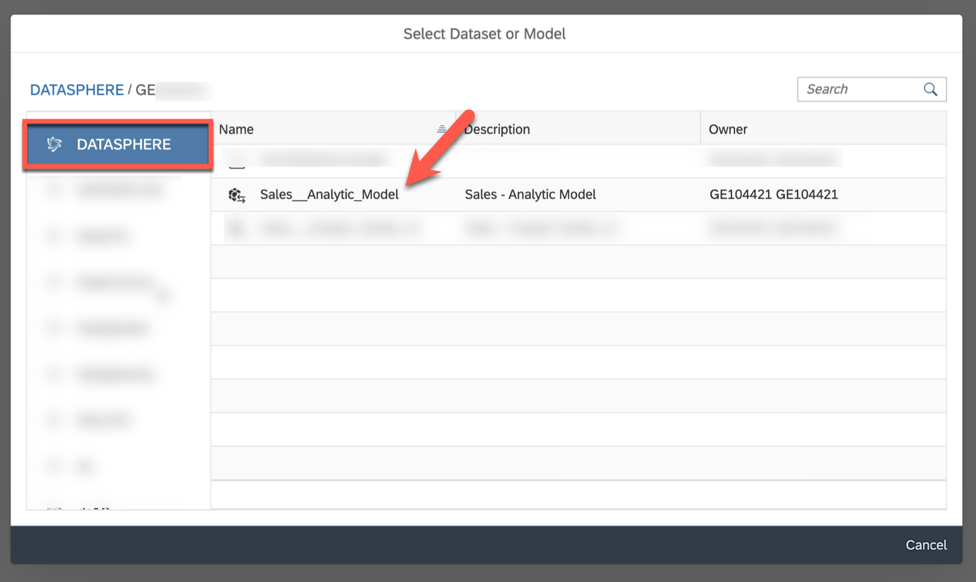
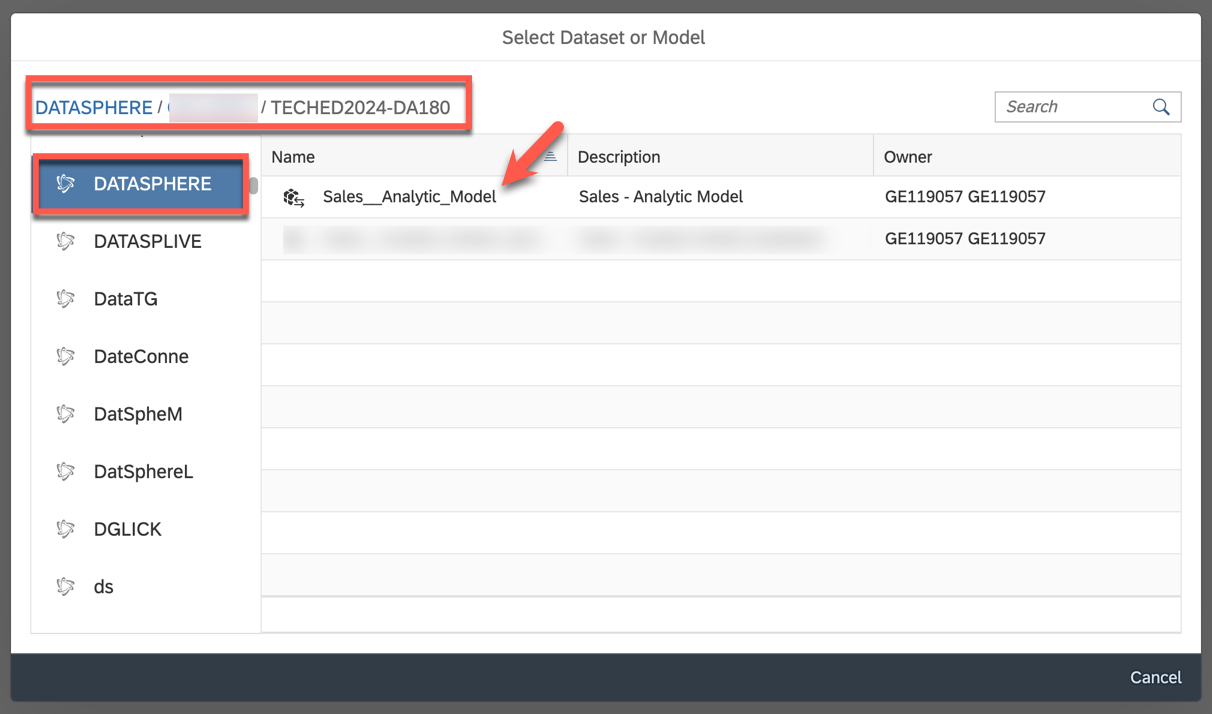
update

diff --git a/exercises/ex23/README.md b/exercises/ex23/README.md
@@ -38,7 +38,7 @@ This functionality is beneficial for development activities when you need to tra
 7. If you scroll down, ensure that ***Load from Table*** is set to ***Delta Capture***. As the delta capture setting is enabled for the source table, the columns ***Change Date*** and ***Change Type*** are automatically mapped to these columns in the target table. Mapping these columns (or a calculated column that contains the content of these columns) to any other target column is not permitted. 
 <br>![](images/00_00_0005.png)  
 
-8. Add a new node for ***Calculated Columns***. Choose the existing column ***STORE_ID*** and enter the expression ***RIGHT(STORE_ID,6)*** as we will exclude the prefix of the STORE_ID so that it can be mapped to the dimension IDs. Adjust the length to 6 characters.
+8. Add a new node for ***Calculated Columns***. Choose the existing column ***STORE_ID*** and enter the expression ***SUBSTR_AFTER(STORE_ID,'US')*** as we will exclude the prefix of the STORE_ID so that it can be mapped to the dimension IDs. Adjust the length to 6 characters.
 <br>![](images/00_00_0006.png)  
 
 9. Exit the graphical view editor and go back to the transformation flow overview.
@@ -98,10 +98,10 @@ This functionality is beneficial for development activities when you need to tra
 26. Select ***Create Analytic Model*** (in the view properties of ***Sales View - Fact (Updated)***).
 <br>![](images/00_00_0035.png)  
 
-27. When creating an updated data model, it is likely that measure or attribute names change. To simulate this, select the measure ***Revenue*** and adjust the business and technical name to ***Updated_Revenue***. 
+27. When creating an updated data model, it is likely that measure or attribute names change. To simulate this, select the measure ***Revenue*** and adjust the business and technical name to ***Updated_Revenue***.  
 <br>![](images/00_00_0042.png) 
 
-28. Save the Analytic Model as ***Sales - Analytic Model (Updated)*** and deploy it. Confirm "Renaming measure technical name might affect existing stories". The Analytic Model is now accessing delta enabled local table which is receiving updated records. 
+28. Save the Analytic Model as ***Sales - Analytic Model (Updated)*** in the folder **TECHED2024-DA180**. You need to confirm the warning "Renaming measure technical name might affect existing stories" once before saving and deploying the model. The Analytic Model is now accessing delta enabled local table which is receiving updated records. 
 We will reuse the previously created SAC Story and map it to the new updated Analytic Model so that the report displays the incoming sales transactions.
 
 29. Use the product switch button in the upper right corner to switch to SAC.

diff --git a/exercises/ex21/README.md b/exercises/ex21/README.md
@@ -14,6 +14,8 @@ You can specify the following types of hierarchies:
 
 **External Hierarchy** - the parent-child hierarchy information is contained in a separate entity, which needs to be associated with the dimension (see Create an External Hierarchy for Drill-Down).
 
+**Hierarchy with Directory** - your entity contains one or more parent-child hierarchies and has an association to a directory dimension containing a list of the hierarchies. These types of hierarchy entities can include nodes from multiple dimensions (for example, country, cost center group, and cost center) and are commonly imported from SAP S/4HANA Cloud and SAP BW (including SAP BW Bridge) systems.
+
 **Data access controls** allow you to apply row-level security to your objects. There are different options how to specify criteria which user is allowed to see which user. One option is the definition based on a hierarchy. Each user can only see the records that match the hierarchy values she is authorized for in the permissions entity, along with any of their descendents. Only external hierarchies with a single pair of parent-child columns are supported. 
 
 ## End of Detour
@@ -66,7 +68,7 @@ A permission entity (view or table) lists SAP Datasphere user IDs (in the form r
 |:-----|:----------------------|:--------------------------------------|:--------------------|:----------------------|
 | X    | Record ID         | Record_ID                     | Integer         |                | 
 |      | User ID         | User_ID                       | String (50)         |                |      
-|      | Product Category      | Parent_Category                       | String (30)          |                 |      
+|      | Product Category      | Product_Category                       | String (30)          |                 |      
 
 
 4. Verify your configuration.
@@ -125,10 +127,10 @@ We want to protect the data of our sales transactions based on this parent-child
 6. In the model properties, add a new Data Access Control.
 <br>![](images/00_00_0010.png)
 
-7. Select the previously created DAC ***DAC_ProductCategory***.
+7. Select the previously created DAC ***DAC_ProductCategory*** (single click).
 <br>![](images/00_00_0011.png)
 
-8. Map the two columns named ***Product Category Name*** (enter the name in the **Search** Field).
+8. Map the two columns named ***Product Category Name*** (enter "Name" in the **Search** Field). When you move your cursor over the columns, the complete name is displayed as tooltip.
 <br>![](images/00_00_0013.png)
 
 9. Set the Alias of the table ***Product*** to ***ProductDim_DAC***.
